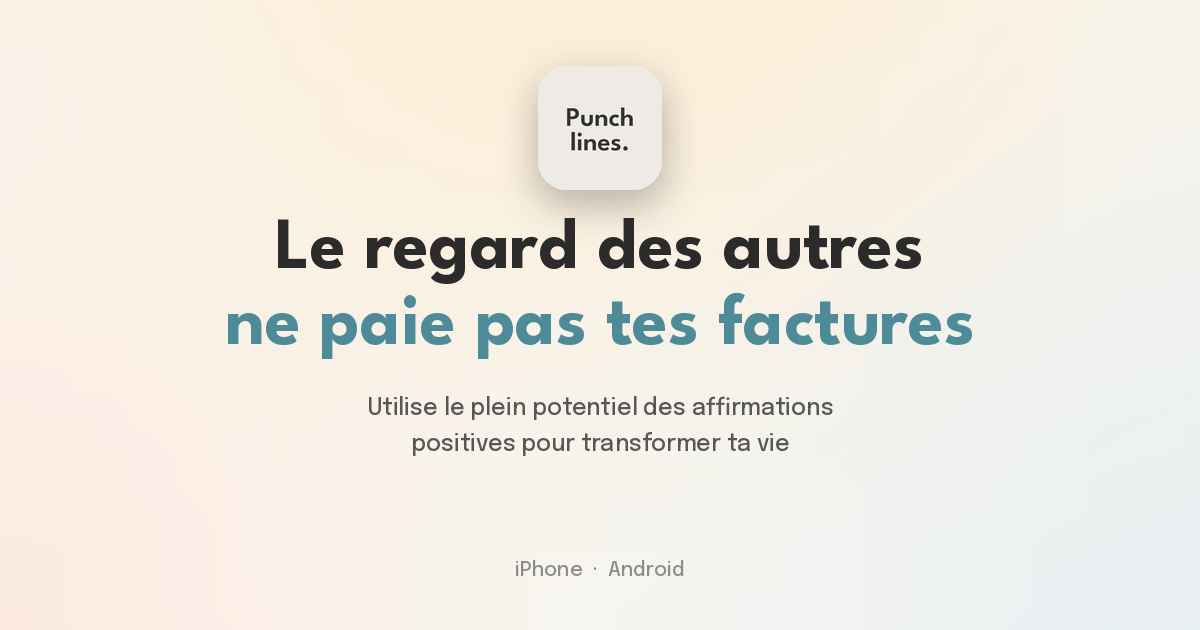
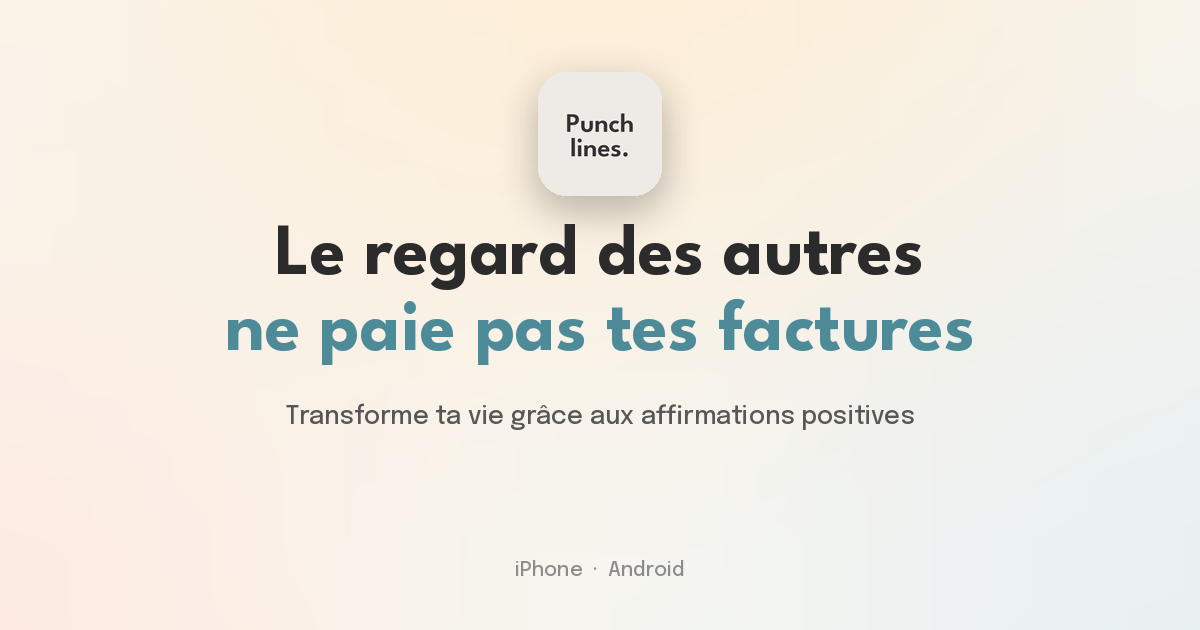
Boutons de CTA plats et nouveau sous-titre
- Les deux boutons stores perdent l'ombre portée de 6 px et
  l'enfoncement au clic. Le retour passe par la couleur du fond
  (#3F3F3F au survol, #242424 au clic).
- Sous-titre : « Transforme ta vie grâce aux affirmations positives »
  (« Transform your life with positive affirmations » en anglais).
  Meta description et og.png suivent.

diff --git a/index.html b/index.html
@@ -4,12 +4,12 @@
 <meta charset="UTF-8">
 <meta name="viewport" content="width=device-width, initial-scale=1.0">
 <title>Punchlines — Le regard des autres ne paie pas tes factures</title>
-<meta name="description" content="Utilise le plein potentiel des affirmations positives pour transformer ta vie. Sur iPhone et Android.">
+<meta name="description" content="Transforme ta vie grâce aux affirmations positives. Sur iPhone et Android.">
 <meta name="theme-color" content="#F7F7F2">
 
 <meta property="og:type" content="website">
 <meta property="og:title" content="Punchlines — Le regard des autres ne paie pas tes factures">
-<meta property="og:description" content="Utilise le plein potentiel des affirmations positives pour transformer ta vie. Sur iPhone et Android.">
+<meta property="og:description" content="Transforme ta vie grâce aux affirmations positives. Sur iPhone et Android.">
 <meta property="og:image" content="https://thepunchlines.app/assets/og.png">
 <meta property="og:url" content="https://thepunchlines.app/">
 <meta name="twitter:card" content="summary_large_image">
@@ -64,7 +64,7 @@
     --bord:#E7E3DB; --bord-doux:#EFEBE3;
     --bleu:#4E8B99;
     --vert:#4B8250;
-    --clay:#323232; --clay-ombre:#1A1A1A;
+    --clay:#323232;
   }
 
   * { box-sizing:border-box; margin:0; padding:0; }
@@ -150,8 +150,7 @@
     padding:12px 22px 12px 18px;
     background:var(--clay);
     color:#F5F3EE;
-    box-shadow:0 6px 0 var(--clay-ombre);
-    transition:transform .14s ease, box-shadow .14s ease;
+    transition:background .18s ease;
   }
   .cta svg { flex:none; opacity:.95; }
   .cta small {
@@ -169,8 +168,8 @@
     font-size:1.0625rem;
     line-height:1.28;
   }
-  .cta:hover { transform:translateY(2px); box-shadow:0 4px 0 var(--clay-ombre); }
-  .cta:active { transform:translateY(6px); box-shadow:0 0 0 var(--clay-ombre); }
+  .cta:hover { background:#3F3F3F; }
+  .cta:active { background:#242424; }
   .cta:focus-visible { outline:2px solid var(--bleu); outline-offset:4px; }
 
   .point { margin:0 .4em; opacity:.6; }
@@ -246,7 +245,7 @@
       <span class="changer" data-i18n="hero.line2">ne paie pas tes factures</span>
     </h1>
 
-    <p class="promesse leve leve-3" data-i18n="hero.promise">Utilise le plein potentiel des affirmations positives pour transformer ta vie</p>
+    <p class="promesse leve leve-3" data-i18n="hero.promise">Transforme ta vie grâce aux affirmations positives</p>
 
     <div class="ctas leve leve-4">
       <a class="cta" href="https://apps.apple.com/app/apple-store/id6744821000?pt=125279170&ct=website&mt=8">
